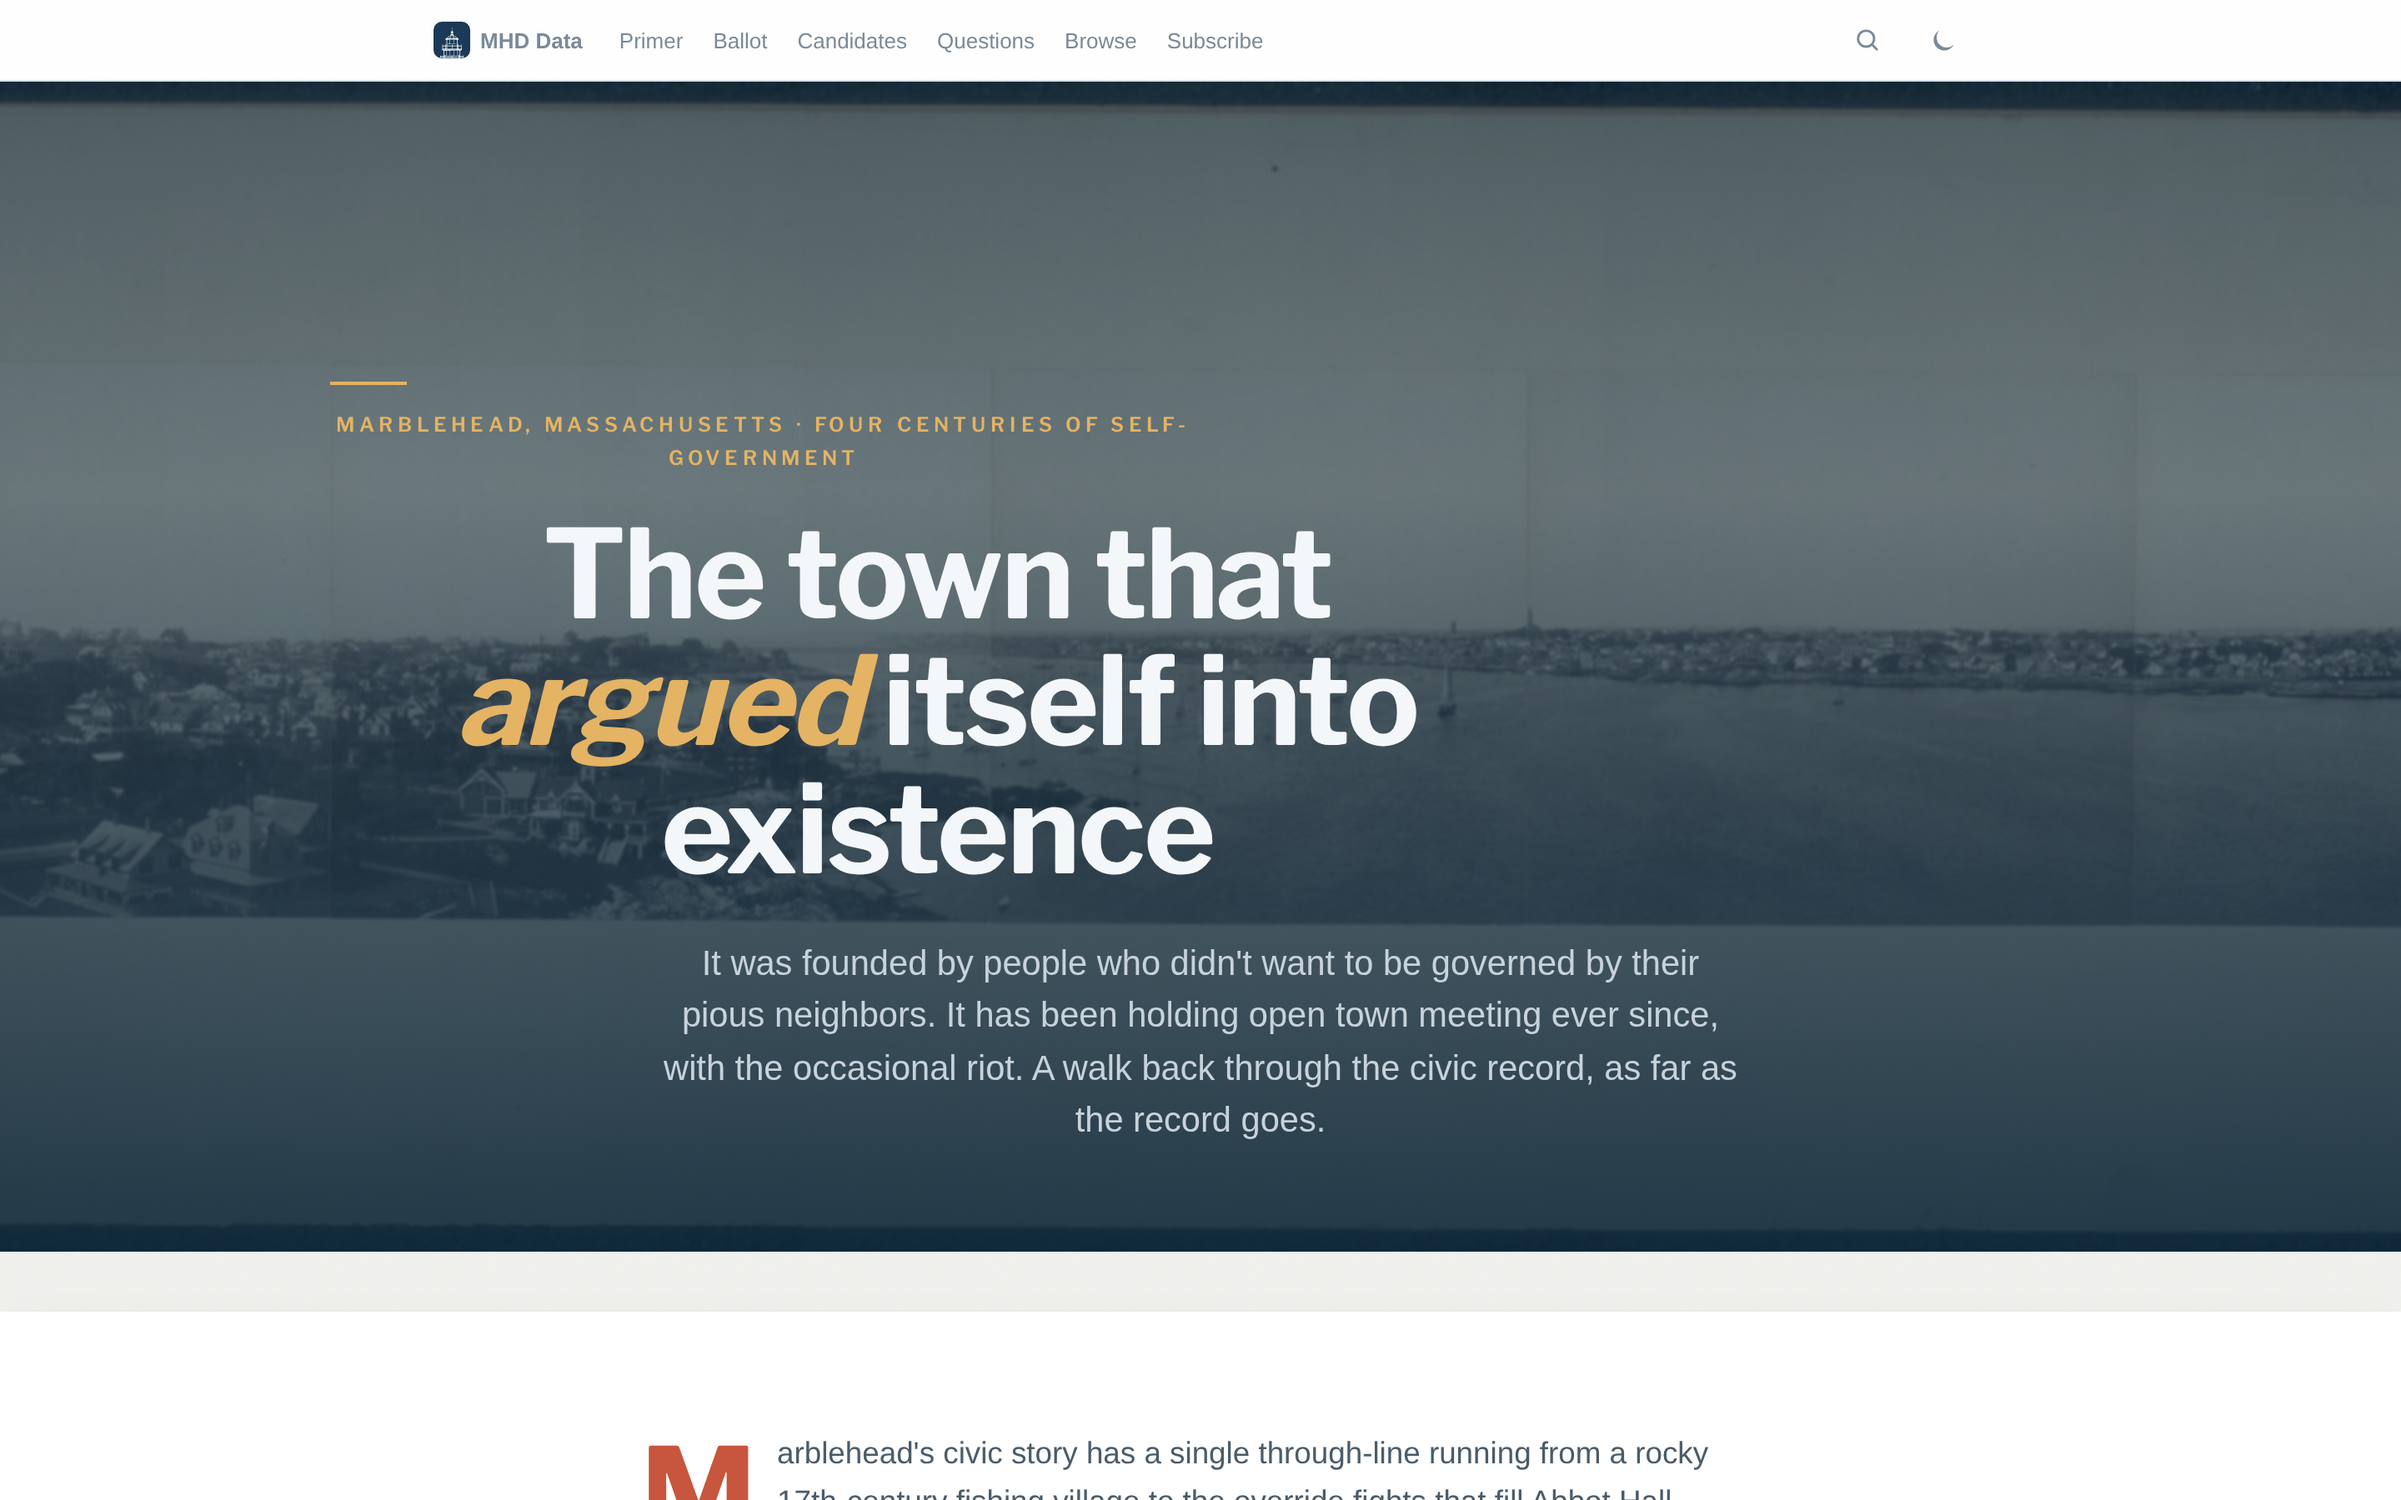
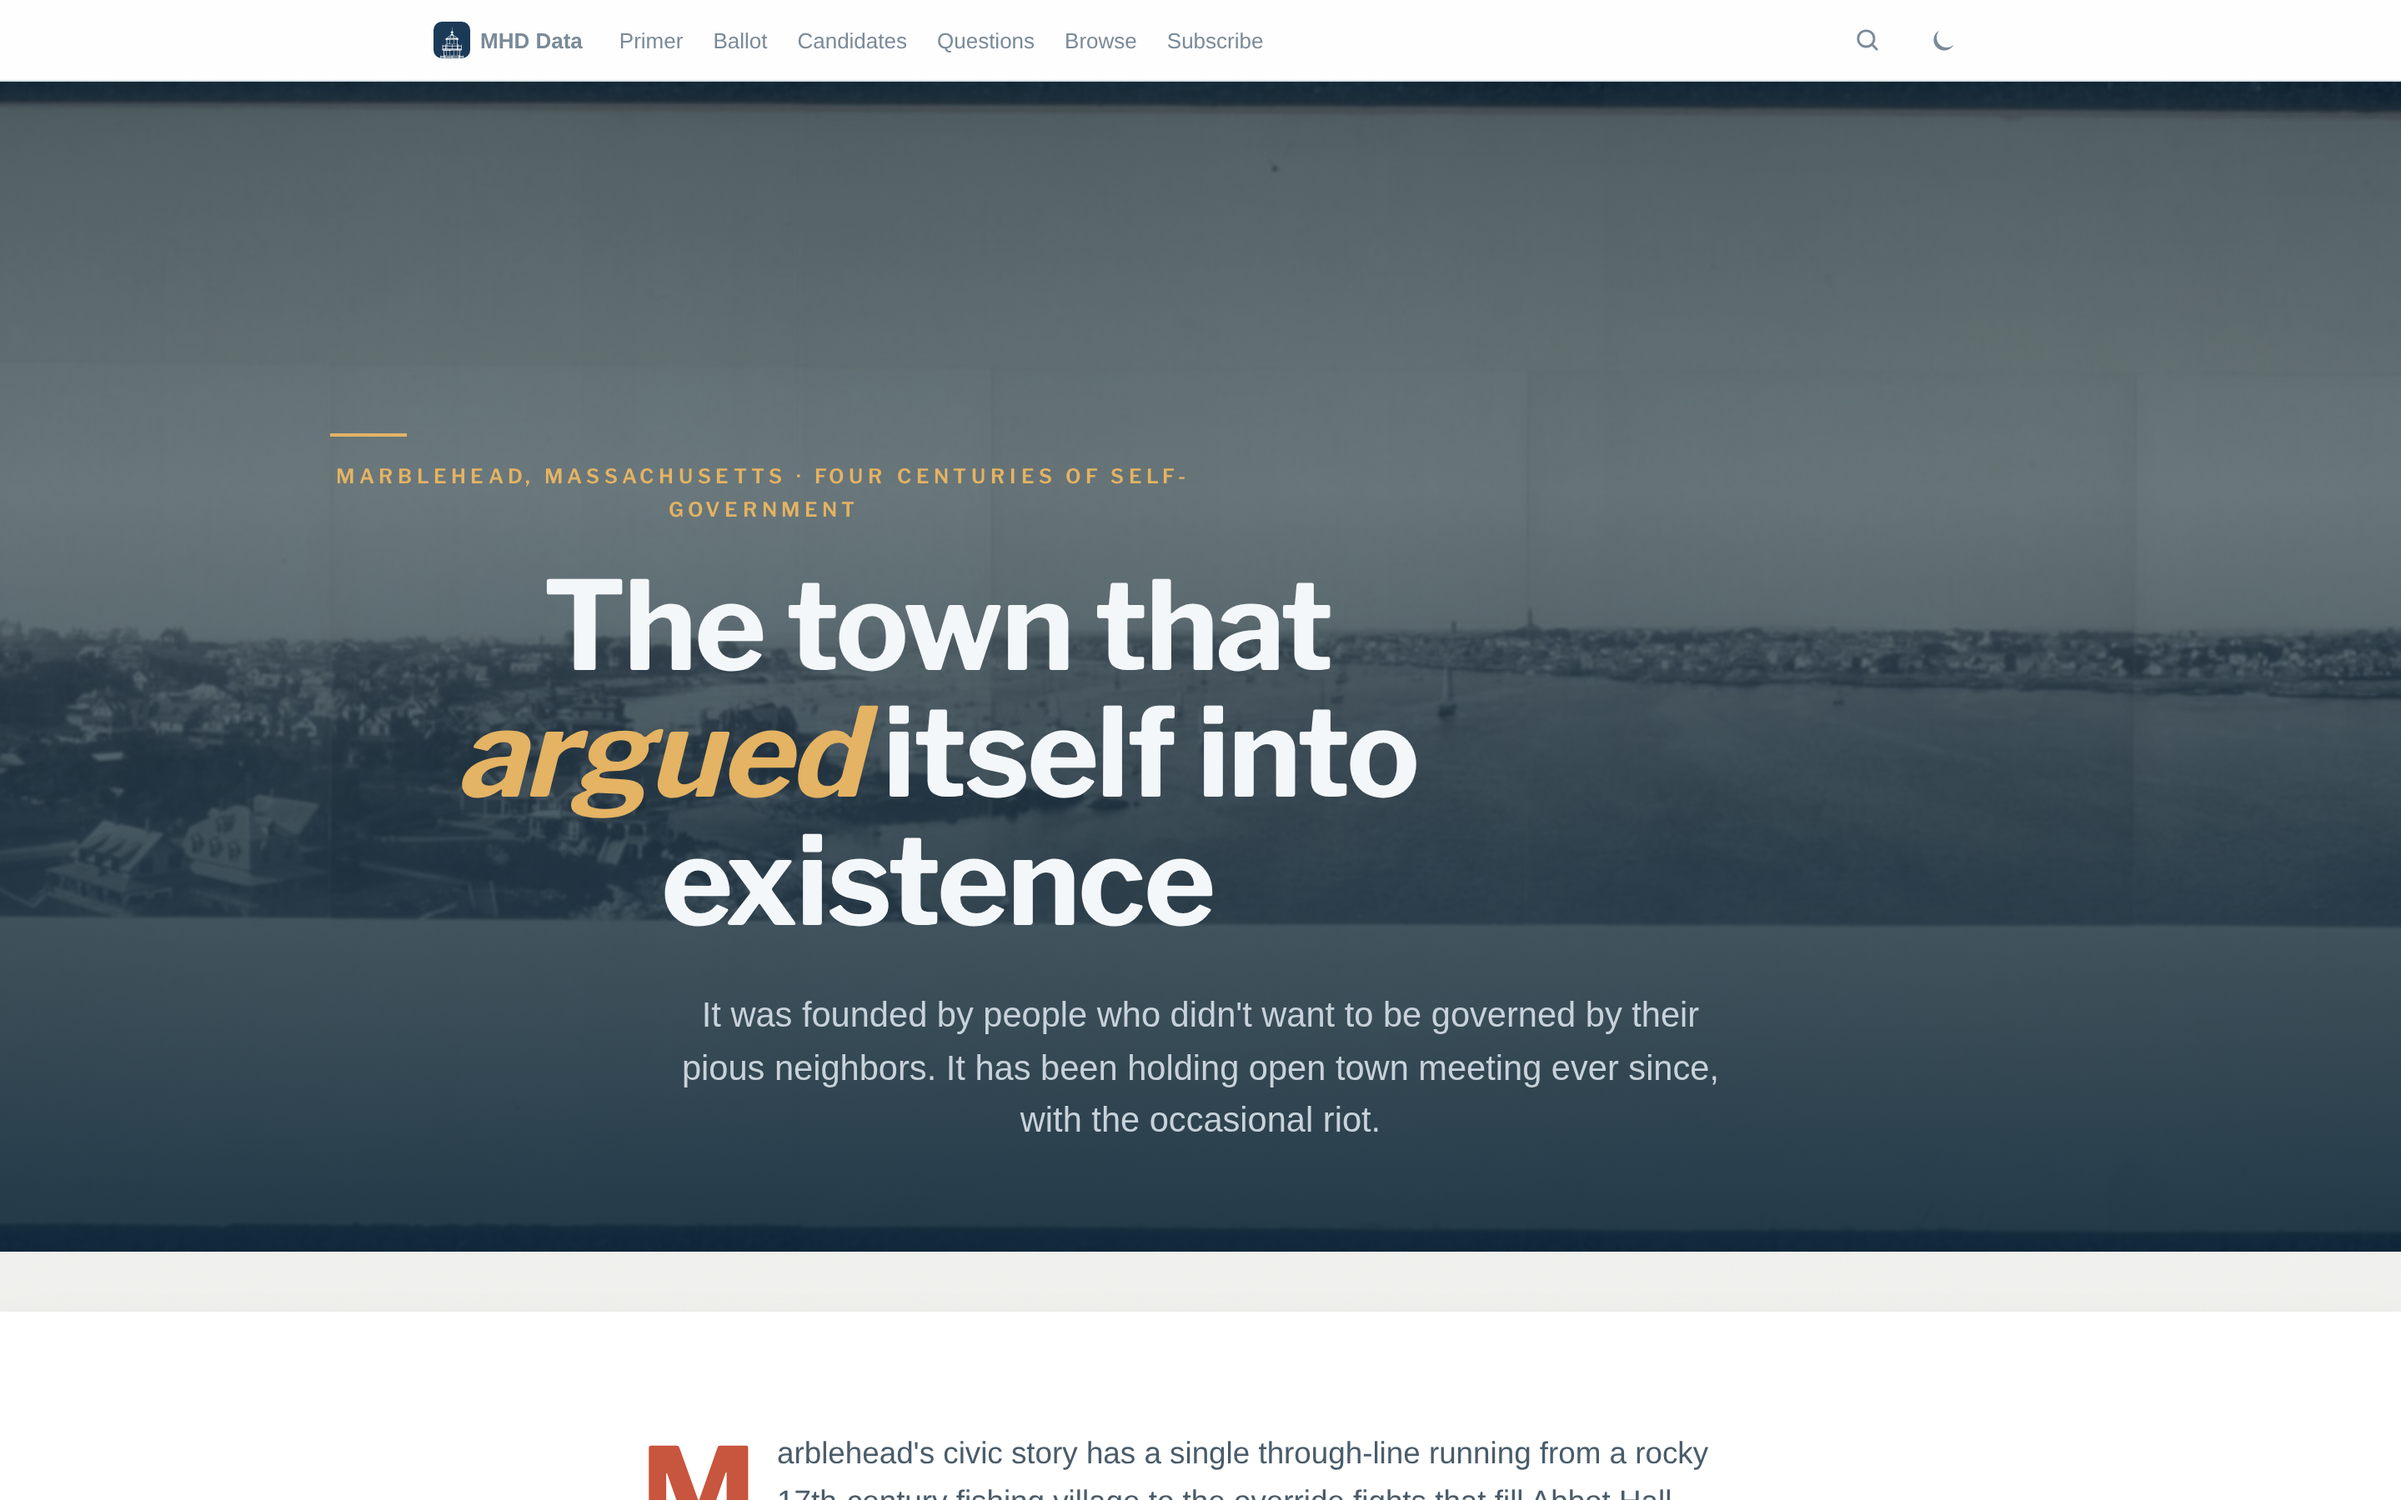
town-history: language pass
- Drop dek's "A walk back through the civic record" tour-guide
  closer; the two punchy sentences before it carry the dek.
- Drop lede's "Here is the long version, oldest to newest";
  meta-narration the page doesn't need.
- Soften the lede claim that the Essex Hospital riot was "the
  most destructive riot in the region's revolutionary era"
  (hard to substantiate against Powder Alarm / Gaspee burning)
  to "one of the more destructive riots of the colonial era".
- Tighten Chapter 5's "One justice note from the darker side
  of the colonial record" to "A darker note from the colonial
  record".

Changed region(s): [[0.125, 0.28, 0.7188, 0.7778]]

diff --git a/town-history.html b/town-history.html
@@ -250,14 +250,14 @@ og_type: article
   <div class="hero-inner">
     <p class="kicker">Marblehead, Massachusetts &middot; Four centuries of self-government</p>
     <h1>The town that <em>argued</em> itself into existence</h1>
-    <p class="dek">It was founded by people who didn't want to be governed by their pious neighbors. It has been holding open town meeting ever since, with the occasional riot. A walk back through the civic record, as far as the record goes.</p>
+    <p class="dek">It was founded by people who didn't want to be governed by their pious neighbors. It has been holding open town meeting ever since, with the occasional riot.</p>
   </div>
 </header>
 
 <!-- ============ ARTICLE ============ -->
 <article>
 
-  <p class="lede"><span class="drop">M</span>arblehead's civic story has a single through-line running from a rocky 17th-century fishing village to the override fights that fill Abbot Hall today: this is a town that has never much liked being told what to do. The friction was there at the founding, it produced the most destructive riot in the region's revolutionary era, and it still animates the open town meeting four hundred years on. Here is the long version, oldest to newest.</p>
+  <p class="lede"><span class="drop">M</span>arblehead's civic story has a single through-line running from a rocky 17th-century fishing village to the override fights that fill Abbot Hall today: this is a town that has never much liked being told what to do. The friction was there at the founding, it produced one of the more destructive riots of the colonial era, and it still animates the open town meeting four hundred years on.</p>
 
   <!-- 1 -->
   <section class="chapter reveal">
@@ -331,7 +331,7 @@ og_type: article
            onerror="this.closest('figure').style.display='none';">
       <figcaption><b>The Old Town House (1727)</b>, photographed for the Historic American Buildings Survey, 1934. "Marblehead's Cradle of Liberty," upstairs town hall and downstairs market, still in use as a public building nearly three centuries on.</figcaption>
     </figure>
-    <p>One justice note from the darker side of the colonial record: the only Marbleheader executed in the 1692 witch trials, Wilmot Redd, was arrested by the town's own constable, James Smith, before being tried and hanged in Salem. A commemorative stone for her stands on Old Burial Hill, where the town's civic life had begun a half-century earlier.</p>
+    <p>A darker note from the colonial record: the only Marbleheader executed in the 1692 witch trials, Wilmot Redd, was arrested by the town's own constable, James Smith, before being tried and hanged in Salem. A commemorative stone for her stands on Old Burial Hill, where the town's civic life had begun a half-century earlier.</p>
   </section>
 
   <!-- 6 -->
